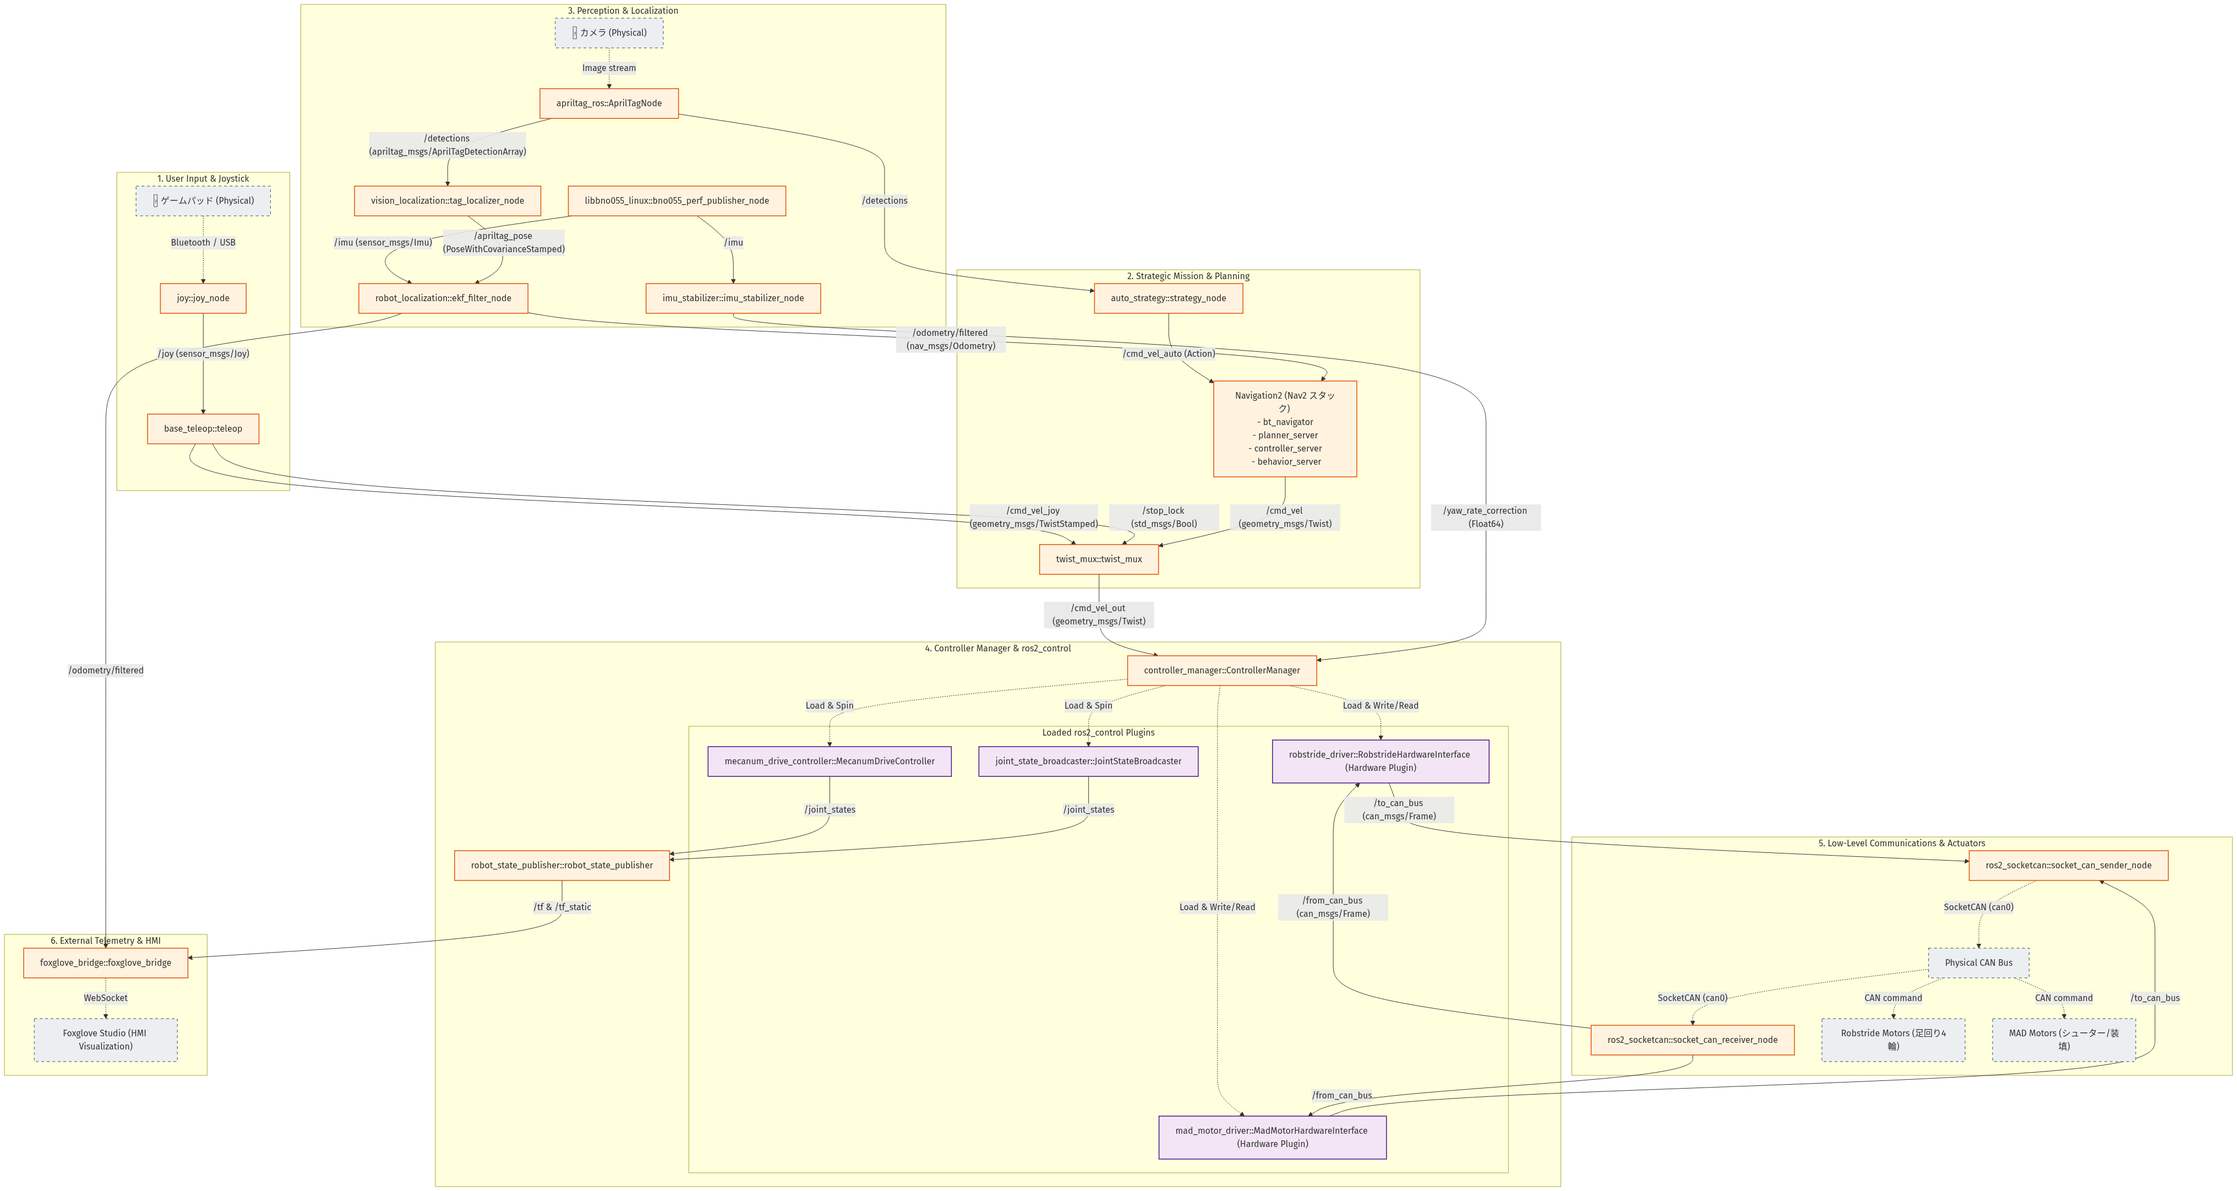
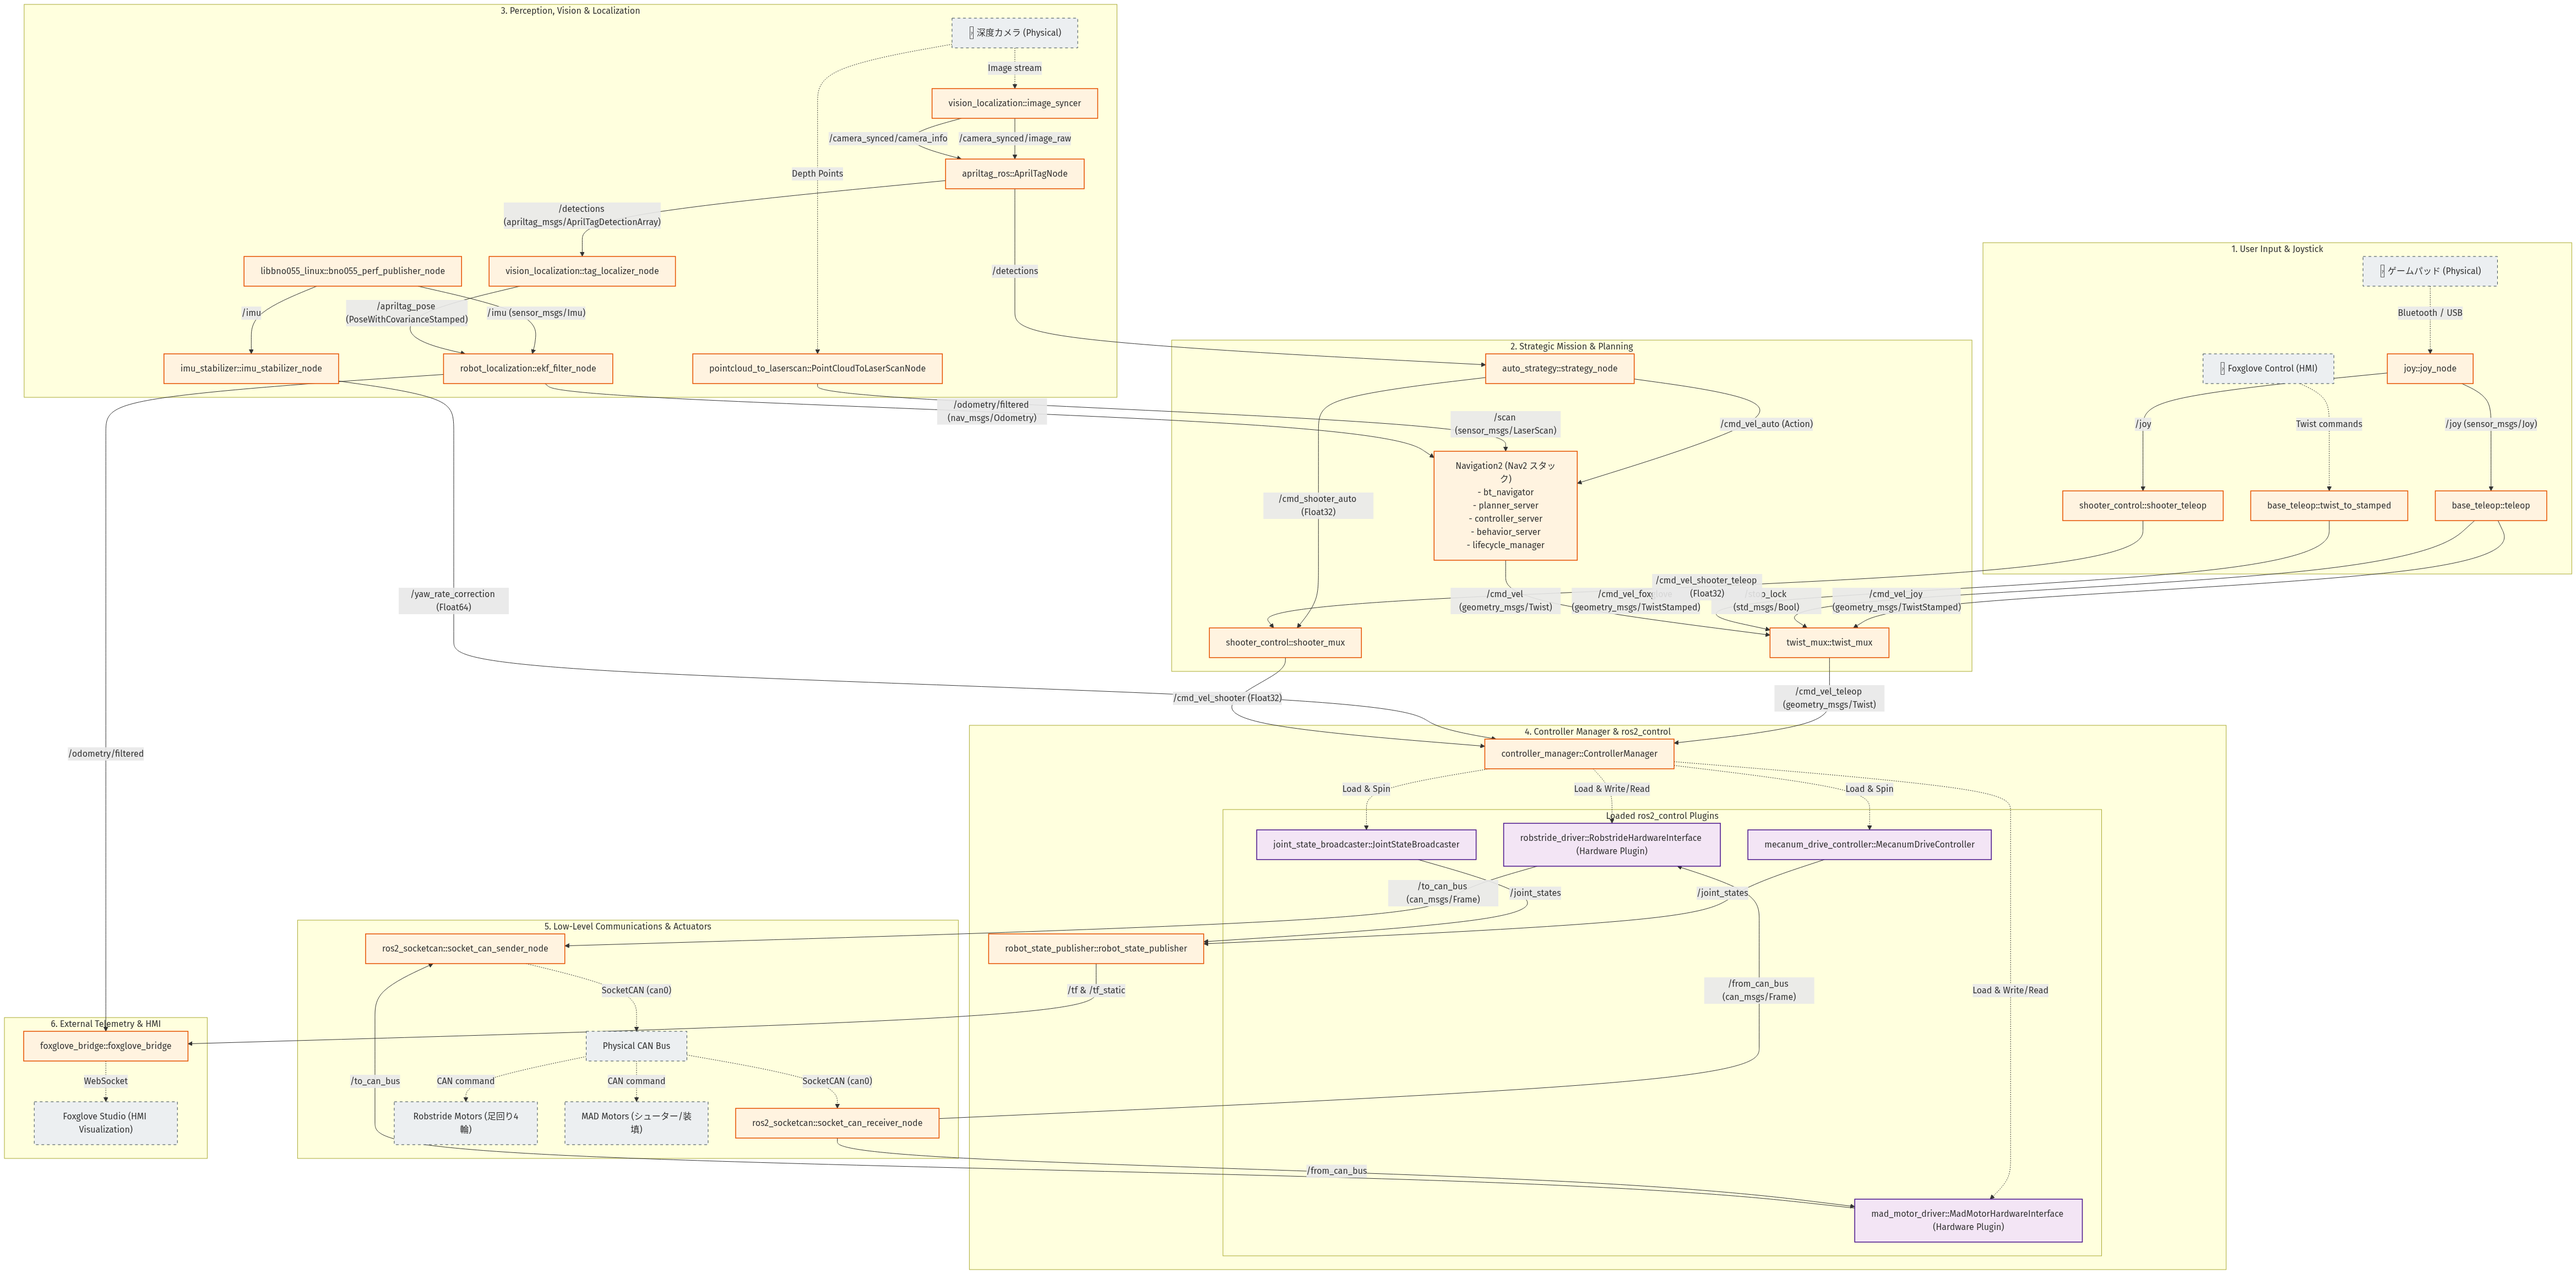
docs: complete the active ROS 2 nodes mapping in architecture diagram and PNG

diff --git a/docs/packages.md b/docs/packages.md
@@ -29,20 +29,35 @@
 
 ```mermaid
 graph TD
+    %% 1. User Input & Joystick
     subgraph "1. User Input & Joystick"
         GamePad["🎮 ゲームパッド (Physical)"] -.->|Bluetooth / USB| JoyNode["joy::joy_node"]
         JoyNode -->|"/joy (sensor_msgs/Joy)"| TeleopNode["base_teleop::teleop"]
+        JoyNode -->|"/joy"| ShooterTeleop["shooter_control::shooter_teleop"]
+        
+        FoxgloveHMI["💻 Foxglove Control (HMI)"] -.->|Twist commands| TwistStampedRelay["base_teleop::twist_to_stamped"]
     end
 
+    %% 2. Strategic Mission & Planning
     subgraph "2. Strategic Mission & Planning"
-        StrategyNode["auto_strategy::strategy_node"] -->|"/cmd_vel_auto (Action)"| Nav2Stack["Navigation2 (Nav2 スタック)<br/>- bt_navigator<br/>- planner_server<br/>- controller_server<br/>- behavior_server"]
+        StrategyNode["auto_strategy::strategy_node"] -->|"/cmd_vel_auto (Action)"| Nav2Stack["Navigation2 (Nav2 スタック)<br/>- bt_navigator<br/>- planner_server<br/>- controller_server<br/>- behavior_server<br/>- lifecycle_manager"]
+        StrategyNode -->|"/cmd_shooter_auto (Float32)"| ShooterMux["shooter_control::shooter_mux"]
+        
         TeleopNode -->|"/cmd_vel_joy (geometry_msgs/TwistStamped)"| TwistMux["twist_mux::twist_mux"]
         TeleopNode -->|"/stop_lock (std_msgs/Bool)"| TwistMux
+        
+        TwistStampedRelay -->|"/cmd_vel_foxglove (geometry_msgs/TwistStamped)"| TwistMux
         Nav2Stack -->|"/cmd_vel (geometry_msgs/Twist)"| TwistMux
     end
 
-    subgraph "3. Perception & Localization"
-        Camera["📷 カメラ (Physical)"] -.->|Image stream| ApriltagNode["apriltag_ros::AprilTagNode"]
+    %% 3. Perception, Vision & Localization
+    subgraph "3. Perception, Vision & Localization"
+        Camera["📷 深度カメラ (Physical)"] -.->|Image stream| ImageSyncer["vision_localization::image_syncer"]
+        Camera -.->|Depth Points| PointCloud2Scan["pointcloud_to_laserscan::PointCloudToLaserScanNode"]
+        
+        ImageSyncer -->|"/camera_synced/image_raw"| ApriltagNode["apriltag_ros::AprilTagNode"]
+        ImageSyncer -->|"/camera_synced/camera_info"| ApriltagNode
+        
         ApriltagNode -->|"/detections (apriltag_msgs/AprilTagDetectionArray)"| TagLocalizer["vision_localization::tag_localizer_node"]
         ApriltagNode -->|"/detections"| StrategyNode
         
@@ -50,12 +65,17 @@ graph TD
         IMUDriver -->|"/imu"| StabilizerNode["imu_stabilizer::imu_stabilizer_node"]
         
         TagLocalizer -->|"/apriltag_pose (PoseWithCovarianceStamped)"| EKFNode
+        PointCloud2Scan -->|"/scan (sensor_msgs/LaserScan)"| Nav2Stack
         EKFNode -->|"/odometry/filtered (nav_msgs/Odometry)"| Nav2Stack
     end
 
+    %% 4. Controller Manager & ros2_control
     subgraph "4. Controller Manager & ros2_control"
-        TwistMux -->|"/cmd_vel_out (geometry_msgs/Twist)"| ControllerManager["controller_manager::ControllerManager"]
+        TwistMux -->|"/cmd_vel_teleop (geometry_msgs/Twist)"| ControllerManager["controller_manager::ControllerManager"]
         StabilizerNode -->|"/yaw_rate_correction (Float64)"| ControllerManager
+        
+        ShooterTeleop -->|"/cmd_vel_shooter_teleop (Float32)"| ShooterMux
+        ShooterMux -->|"/cmd_vel_shooter (Float32)"| ControllerManager
         
         subgraph "Loaded ros2_control Plugins"
             MecanumController["mecanum_drive_controller::MecanumDriveController"]
@@ -73,6 +93,7 @@ graph TD
         JointStateBroadcaster -->|"/joint_states"| RobotStatePublisher
     end
 
+    %% 5. Low-Level Communications & Actuators
     subgraph "5. Low-Level Communications & Actuators"
         RobstrideHW -->|"/to_can_bus (can_msgs/Frame)"| CANSender["ros2_socketcan::socket_can_sender_node"]
         MadMotorHW -->|"/to_can_bus"| CANSender
@@ -87,6 +108,7 @@ graph TD
         PhysicalCAN -.->|CAN command| MADMotors["MAD Motors (シューター/装填)"]
     end
 
+    %% 6. External Telemetry & HMI
     subgraph "6. External Telemetry & HMI"
         RobotStatePublisher -->|"/tf & /tf_static"| FoxgloveBridge["foxglove_bridge::foxglove_bridge"]
         EKFNode -->|"/odometry/filtered"| FoxgloveBridge
@@ -97,9 +119,9 @@ graph TD
     classDef plugin fill:#f3e5f5,stroke:#4a148c,stroke-width:1.5px;
     classDef device fill:#eceff1,stroke:#37474f,stroke-width:1px,stroke-dasharray: 5 5;
     
-    class JoyNode,TeleopNode,StrategyNode,Nav2Stack,TwistMux,IMUDriver,EKFNode,StabilizerNode,TagLocalizer,ControllerManager,RobotStatePublisher,CANSender,CANReceiver,ApriltagNode,FoxgloveBridge node;
+    class JoyNode,TeleopNode,StrategyNode,Nav2Stack,TwistMux,IMUDriver,EKFNode,StabilizerNode,TagLocalizer,ControllerManager,RobotStatePublisher,CANSender,CANReceiver,ApriltagNode,FoxgloveBridge,ImageSyncer,PointCloud2Scan,TwistStampedRelay,ShooterTeleop,ShooterMux node;
     class MecanumController,JointStateBroadcaster,RobstrideHW,MadMotorHW plugin;
-    class GamePad,Camera,RobstrideMotors,MADMotors,PhysicalCAN,FoxgloveStudio device;
+    class GamePad,Camera,RobstrideMotors,MADMotors,PhysicalCAN,FoxgloveStudio,FoxgloveHMI device;
 ```
 
 ---
